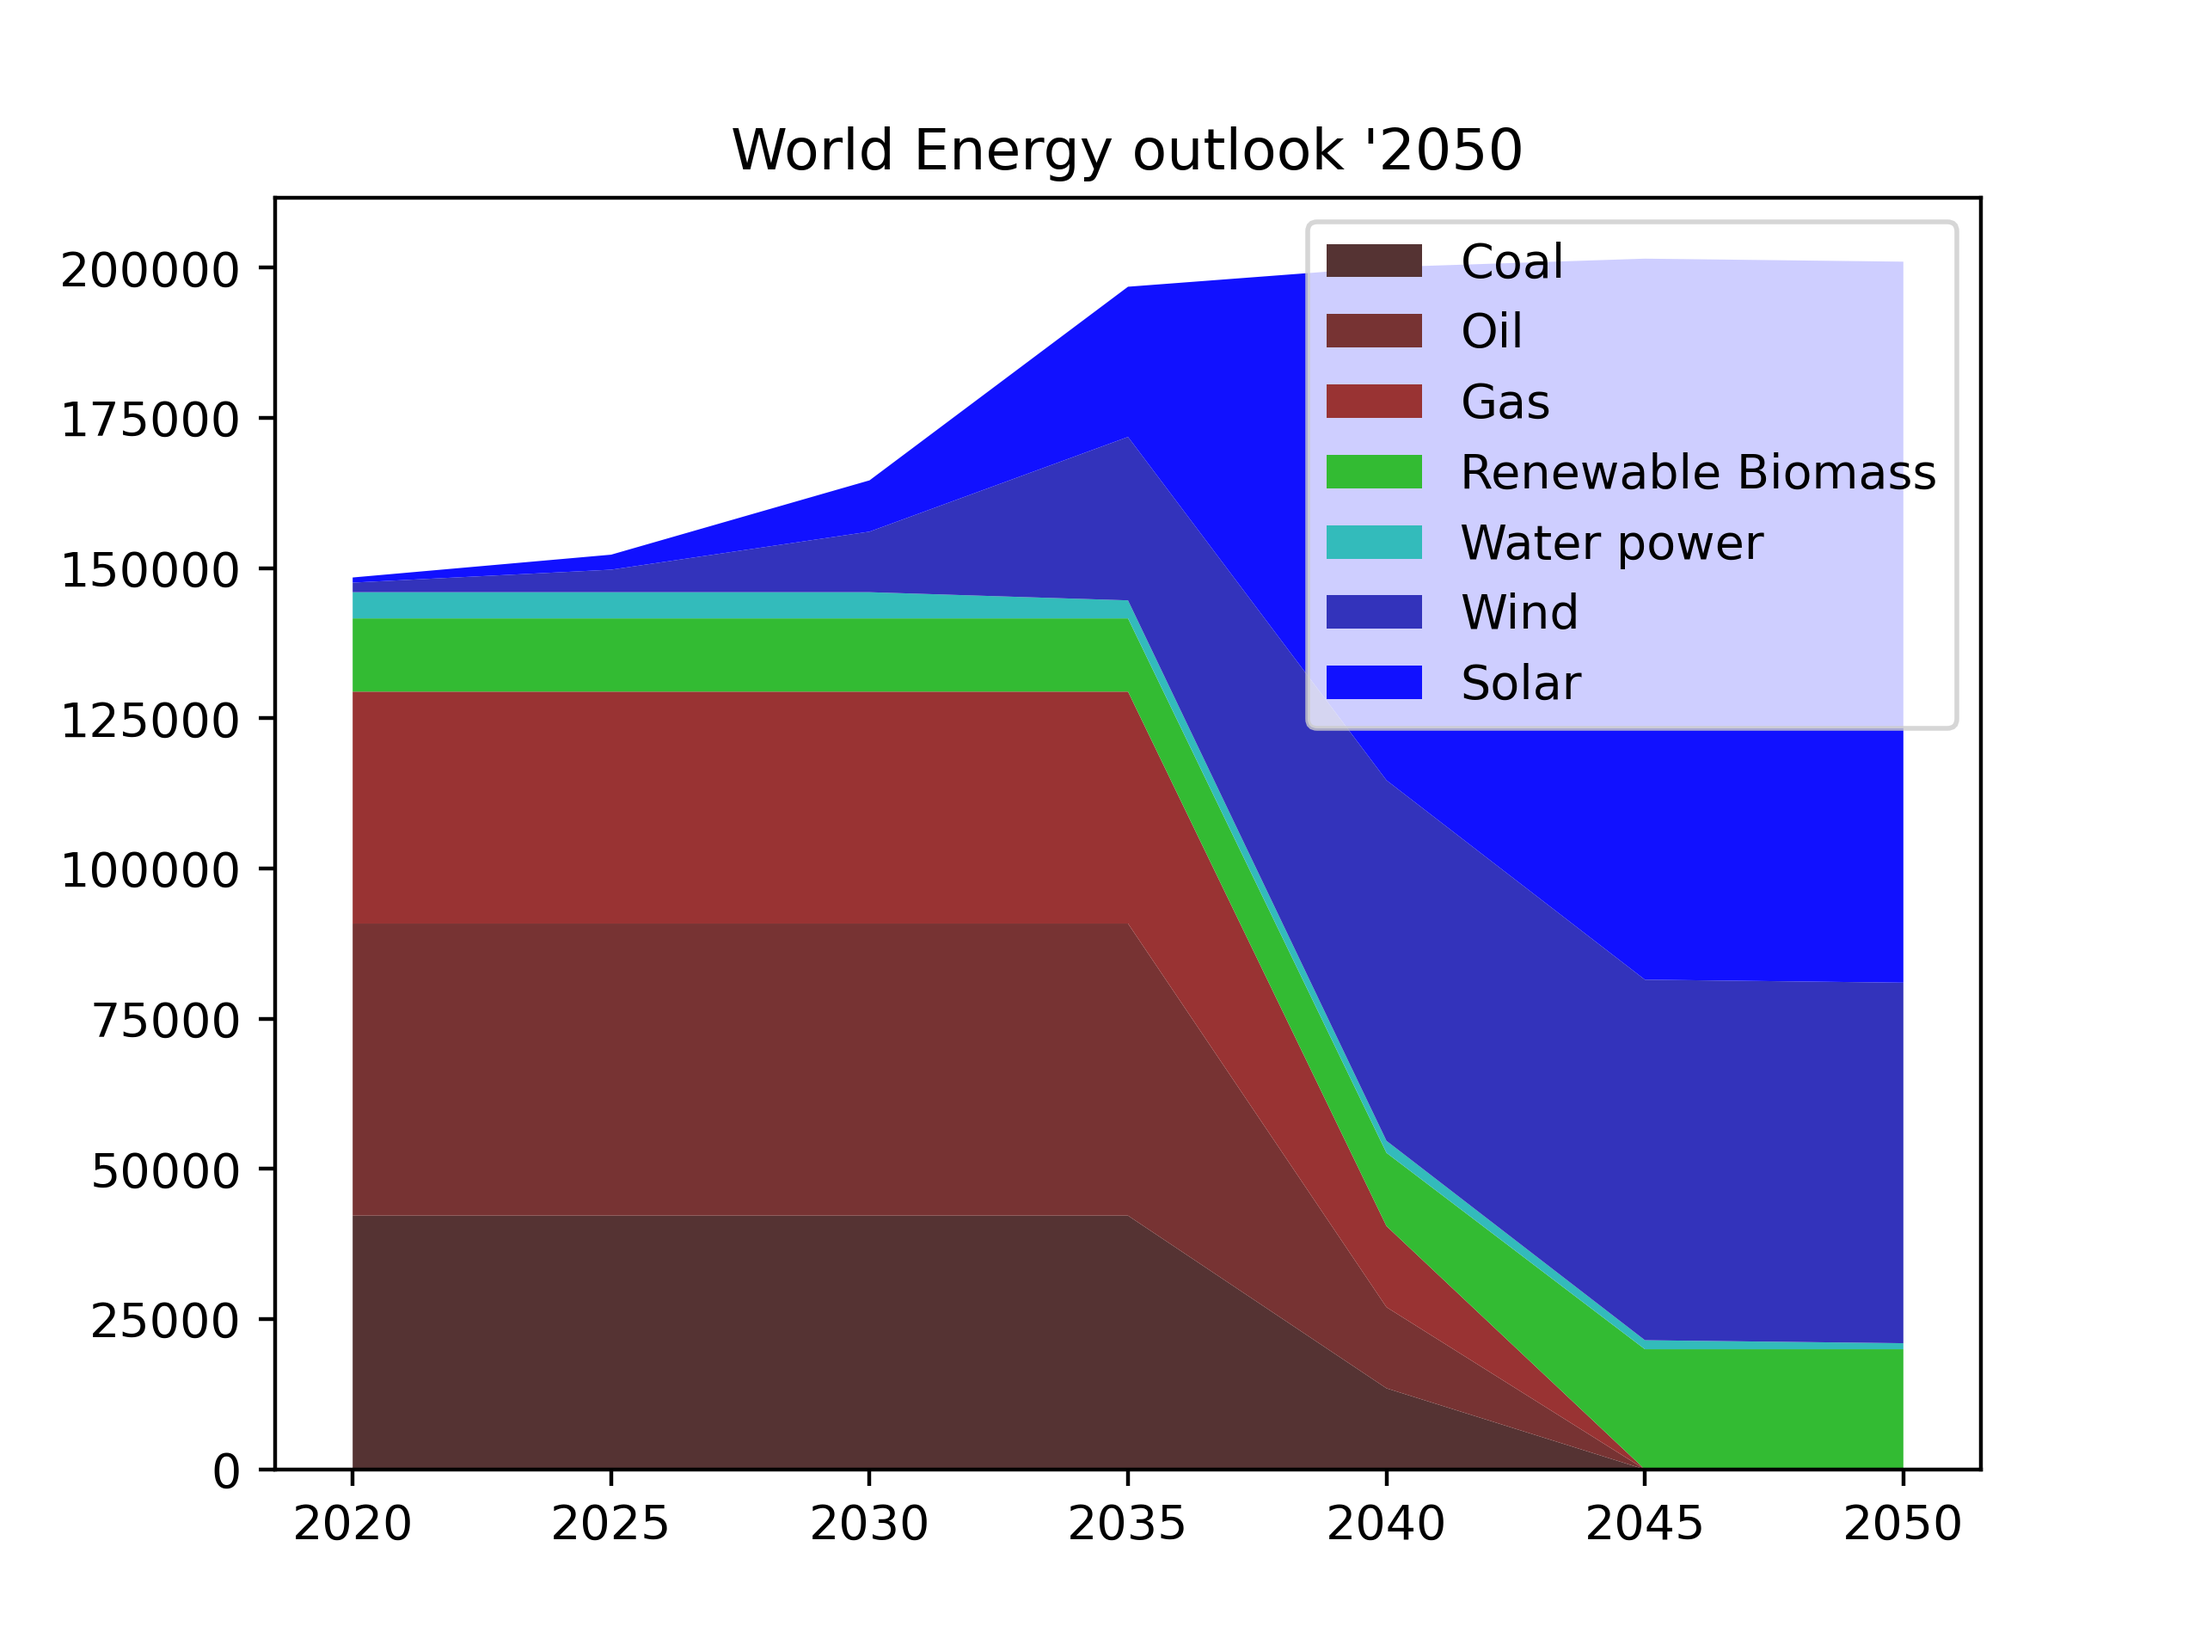
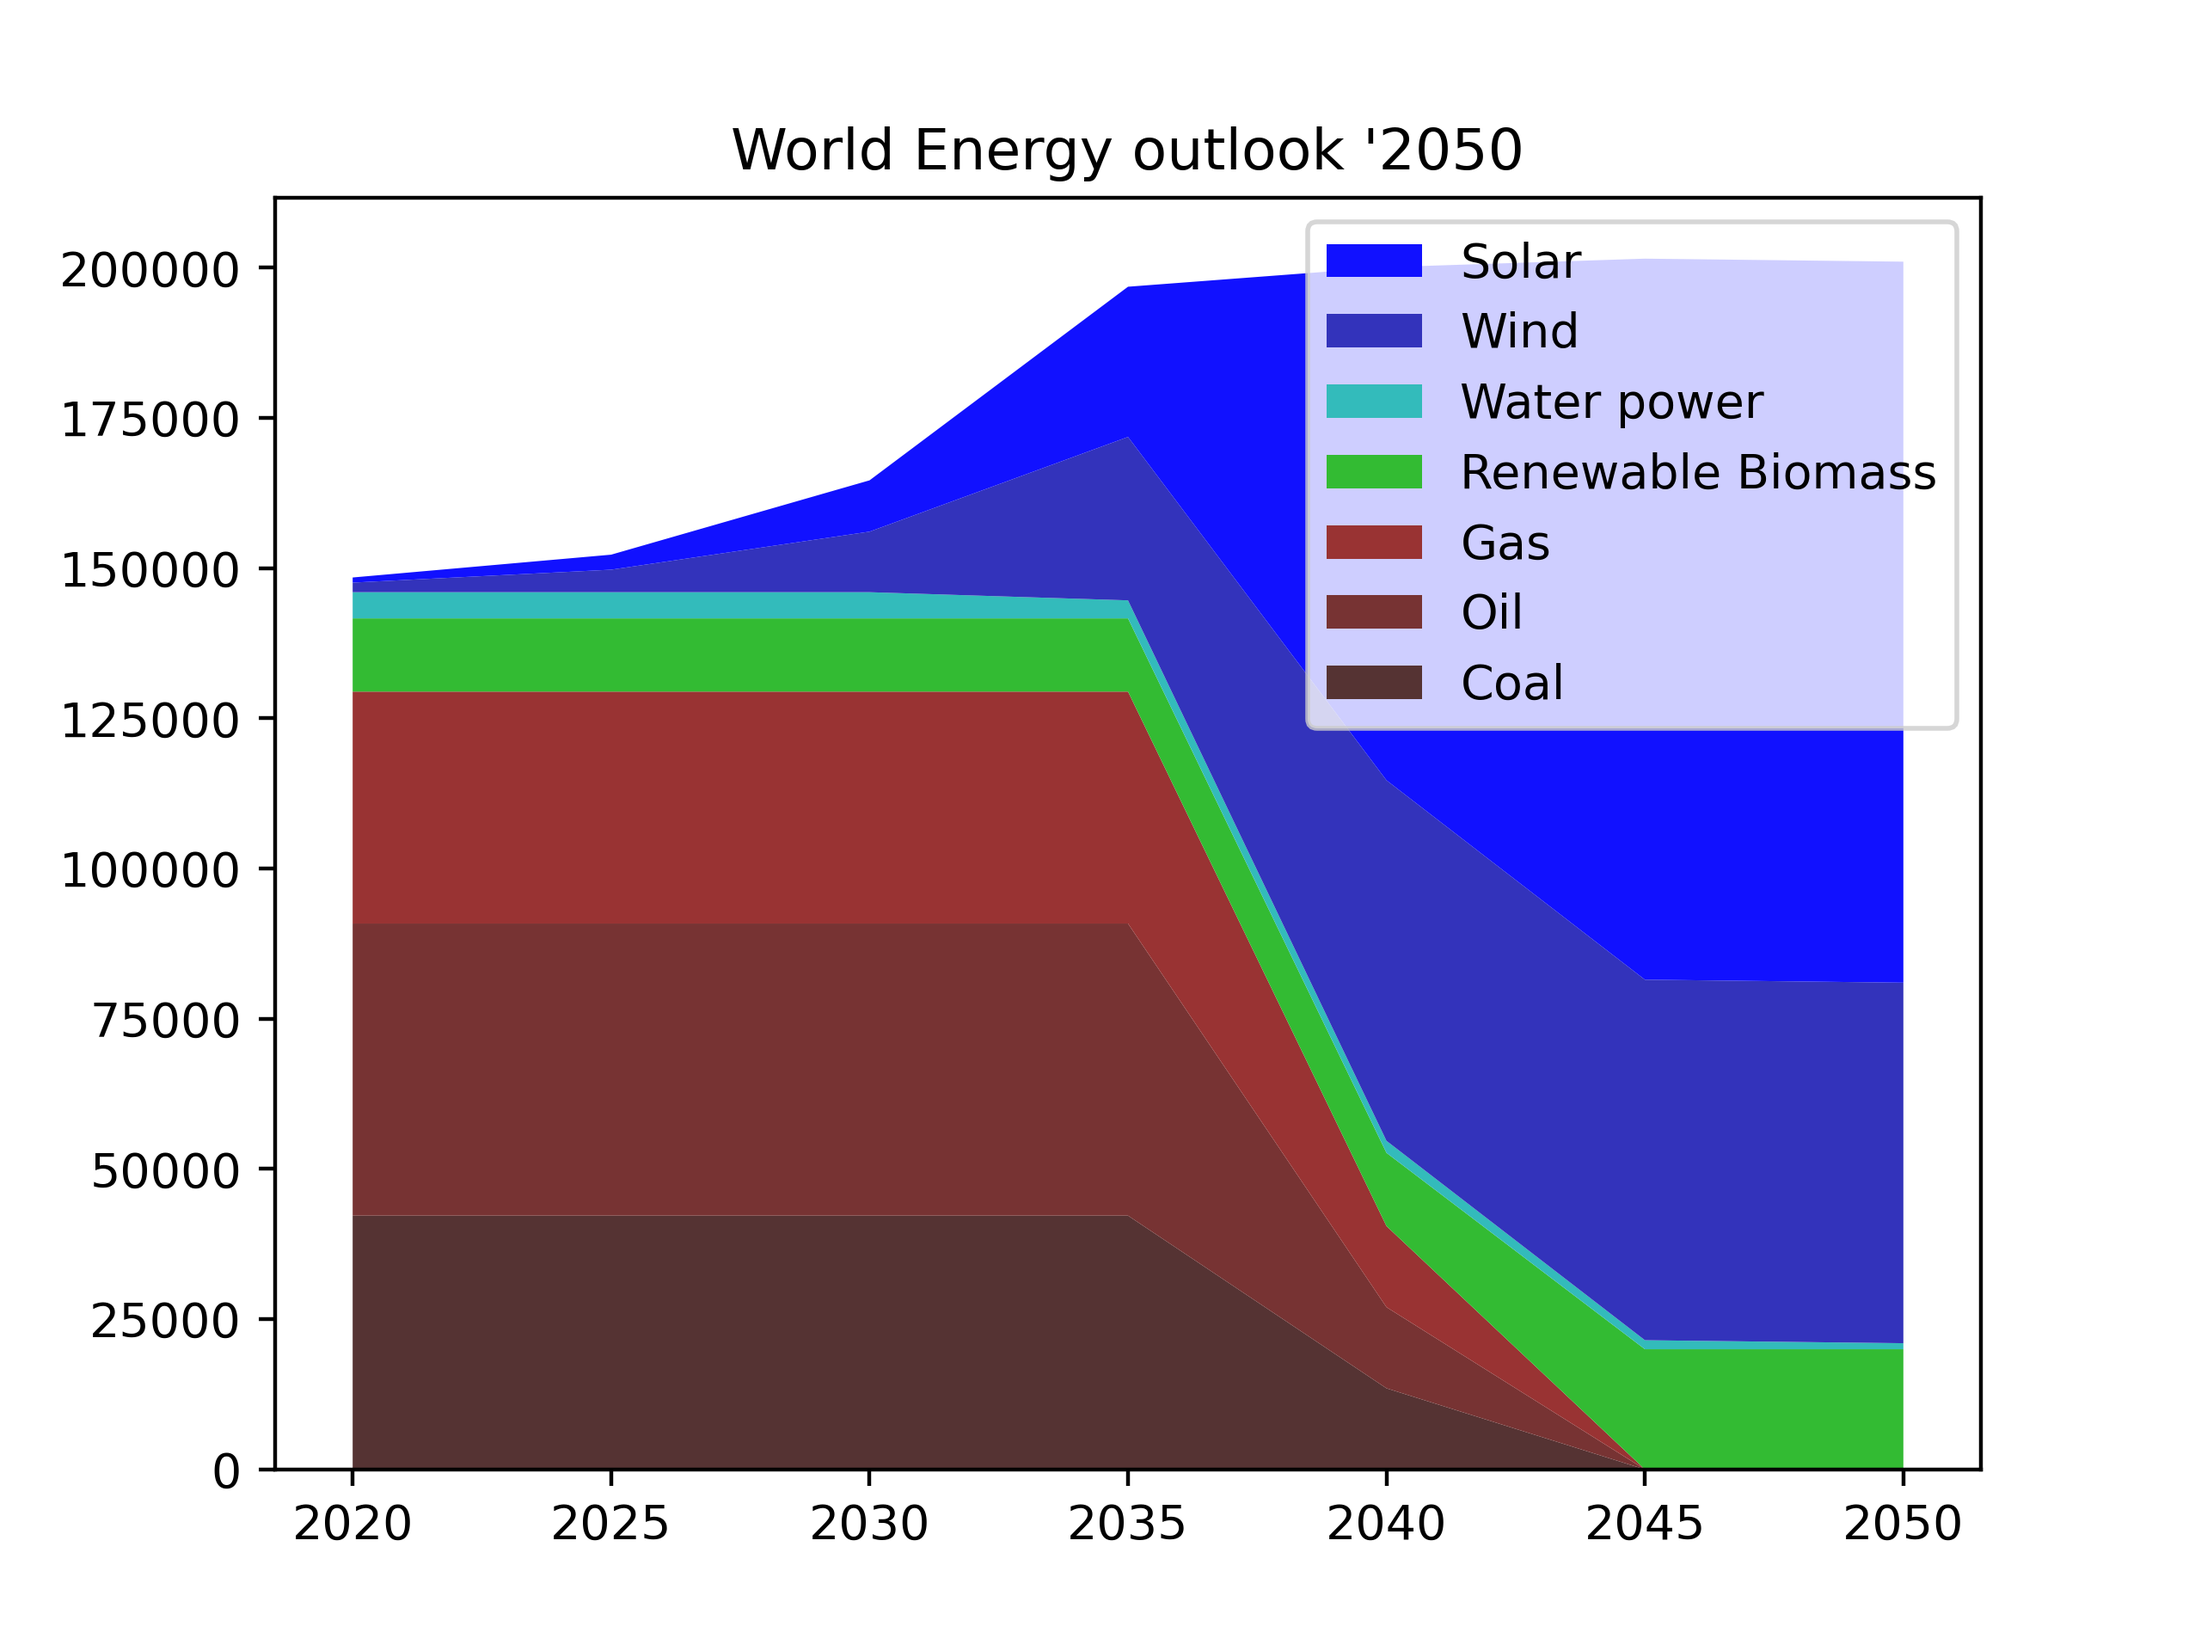
..

Changed region(s): [[0.5938, 0.3125, 0.8125, 0.4375], [0.5938, 0.125, 0.8125, 0.25]]

diff --git a/plot.py b/plot.py
@@ -15,8 +15,12 @@ gsmt = [146000,150000,162000,195000,200000, 200000, 200000]
 
 nclr  = [ 2679,  2679,  2679,  2679,  1300,      0,      0]
 
+# layout bugfix
+fig = plt.figure()
+ax = fig.add_subplot(1, 1, 1)
+
 plt.title("World Energy outlook '2050")
-plt.stackplot(years,
+ax.stackplot(years,
 	[
 		coal, oil, gas,
 		plant,
@@ -33,6 +37,12 @@ plt.stackplot(years,
 		"Water power", "Wind", "Solar"
 	)
 )
-plt.legend()
+
+#plt.legend()
+# fix to reverse the order of the legend:
+# https://stackoverflow.com/questions/34576059/reverse-the-order-of-a-legend
+handles, labels = ax.get_legend_handles_labels()
+ax.legend(handles[::-1], labels[::-1])
+
 #plt.show()
 plt.savefig("plot.png", dpi=400)
